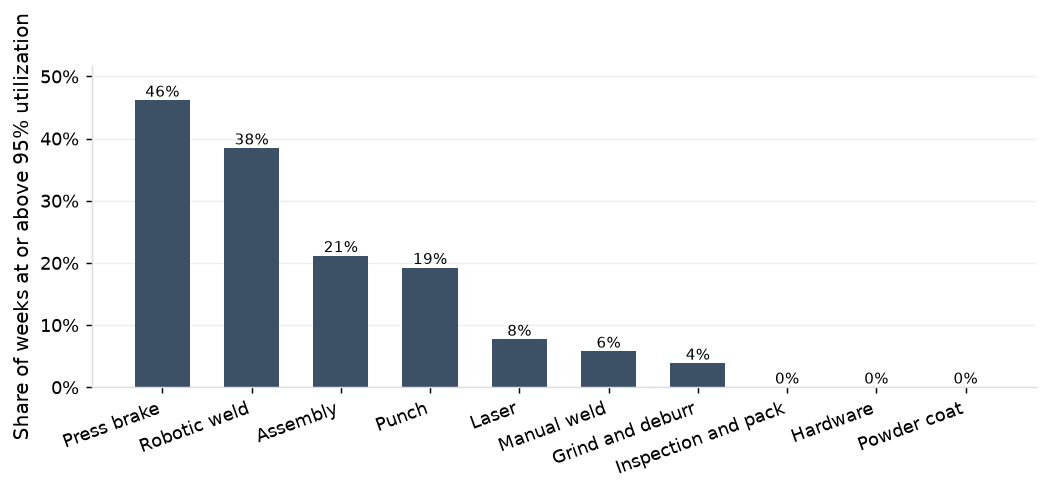
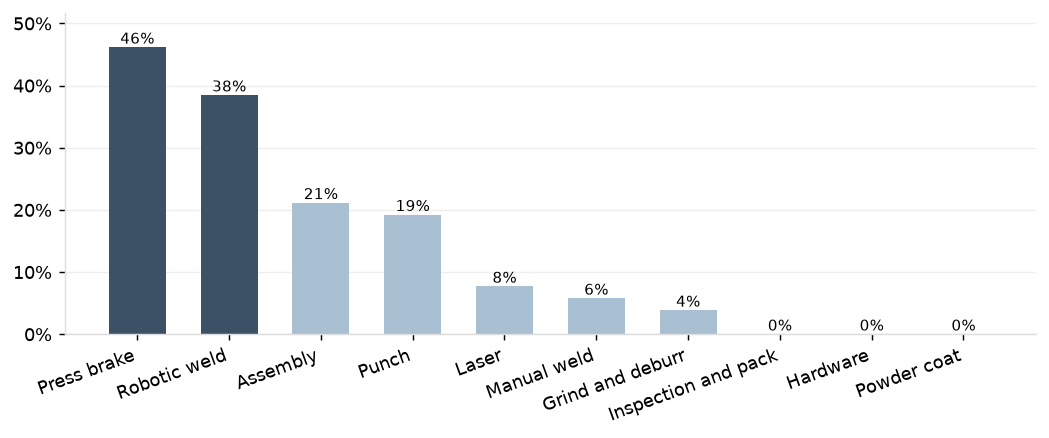
Capacity report: Section 1 on utilization over time, weeks at full load and queue days

Changed region(s): [[0.0, 0.0297, 0.9457, 0.9795]]

diff --git a/docs/reports/capacity_constraints_and_setups.html b/docs/reports/capacity_constraints_and_setups.html
@@ -57,14 +57,16 @@ nav.toc a.sub { font-size: 12px; padding-left: 22px; }
 <body><div class="page-header"><h1>Report: Capacity, Constraints and Setups</h1><div class="sub">Created by Brian Davis, 2026</div></div>
 <div class="layout"><nav class="toc"><div class="toc-title">Contents</div><a href="#f1">1. Capacity Across the Shop</a><a href="#f2">2. Load, Queue Time and WIP</a><a href="#f3">3. Setups Against Standard</a><a href="#f4">4. Run Standards</a><a href="#appendix">Appendix</a></nav>
 <main class="content"><h2 id='f1'>1. Capacity Across the Shop</h2>
-<p>The shop's floor consists of ten work centers and 25 machines. The floor activity (operations per machine a week and hours per operation) in routing order is shown below. The grind and deburr, inspection and pack, and powder coat stations run the highest number of operations per machine a week while averaging the shortest amount of time per operation (0.46 to 0.49 hours), and the manual weld bays, assembly and the robotic weld cell run the fewest operations while averaging the longest time (3.8 to 4.9 hours).</p>
-<div class='chart-title'>Floor Activity by Work Center, 2025</div><img alt="Floor Activity by Work Center, 2025" src="../figures/capacity_floor_activity.png?v=7b83e9b6">
-<h3 id='f1_1'>Machine Utilization and Uptime</h3>
-<p>In 2025, there were 29,031 machine operations across ten work centers. This translates to 62,368 scheduled hours, 60,622 available hours, and 45,590 machine hours over the course of the year, as defined below:</p><ul><li>Scheduled hours: the hours the machine was crewed</li><li>Available hours: scheduled hours less recorded downtime</li><li>Machine hours: hours the machine was actually running jobs (both setup and run)</li><li>Uptime: available hours / scheduled hours</li><li>Utilization: machine hours / available hours</li></ul>
-<p>In 2025, the brakes ran at 91% utilization against 97% uptime, a 6-point gap that is the smallest production capacity buffer of any work center. The robotic weld cell ran at 83% utilization, the laser cutting stations at 74% and the assembly through hardware work centers at 66% to 69%. The powder line ran at just 56% utilization. Uptime is 96% to 98% at every work center. See Appendix Table <a href='#t1'>1</a> for additional detail.</p>
+<p>The shop's floor consists of 25 machines across ten work centers. The press brakes run at the highest utilization of any work center, in every quarter since 2023 but one. The robotic weld cell has been second in every quarter from 2025 Q1, having run at 53% to 79% before then, when the lasers and other work centers ran above it; it passed the brakes once, in 2025 Q3 (92% against 90%).</p>
+<div class='chart-title'>Utilization by Work Center, 2023 to 2025</div><img alt="Utilization by Work Center, 2023 to 2025" src="../figures/capacity_utilization_trend.png?v=15ac8030">
+<p>In 2025, the press brakes ran at 91% utilization against 97% uptime, and this 6-point gap was the smallest production capacity buffer of any work center. The robotic weld cell ran at 83% utilization against 97% uptime, a 14-point buffer. Uptime was 96% to 98% at every work center; for purposes of this report, uptime treats setup as running time, not downtime. See Appendix Table <a href='#t1'>1</a> for additional detail.</p>
 <div class='chart-title'>Utilization and Machine Uptime by Work Center</div><img alt="Utilization and Machine Uptime by Work Center" src="../figures/constraint_utilization_uptime.png?v=398f0550">
-<p>Machine uptime figures above treat setup as part of running time, not downtime; setup is counted within utilization for the purposes of this report. Across all work centers, the sources of machine downtime were unplanned breakdowns (50%), planned maintenance (30%), no operator present (13%) and waiting for a program (8%). The chart below details machine downtime by work center.</p>
-<div class='chart-title'>Machine Downtime Hours and Sources by Work Center, 2025</div><img alt="Machine Downtime Hours and Sources by Work Center, 2025" src="../figures/capacity_downtime_by_driver.png?v=fd987ec4">
+<p>Not only do the press brakes and robotic weld cell have the highest average utilization, they also spend more time than any other work station at or near maximum utilization. Shown below is the share of weeks in 2025 that each work station spent at or above 95% average utilization. The press brakes and the robotic weld cell were at this level in 46% and 38% of weeks throughout the year.</p>
+<div class='chart-title'>Share of weeks at or above 95% utilization, 2025</div><img alt="Share of weeks at or above 95% utilization, 2025" src="../figures/capacity_hot_week_share.png?v=5980e1e8">
+<p>Work stations experienced an increase in queue time when operating near maximum utilization, compared to weeks at lower utilization. Notably, the press brakes were the exception: their queue time in weeks at or above 95% utilization was lower than in their other weeks (3.06 days against 3.98). This is because the other weeks on this station are still running at 85% to 95% utilization in 19 of 28 cases and carry the backlog of the weeks before them.</p>
+<div class='chart-title'>Queue Time in Weeks at or Above 95% Utilization and Other Weeks, 2025</div><img alt="Queue Time in Weeks at or Above 95% Utilization and Other Weeks, 2025" src="../figures/capacity_queue_in_hot_weeks_year.png?v=5e865f9a">
+<p>Throughout 2025, jobs spent 36,318 days waiting at a work center after their first operation. The press brake station accounted for 56% of those days, which is a function of its consistently high utilization, as well as its volume of operations. There were nearly 5,700 brake operations in 2025. The robotic weld cell, which saw similar queue times to the press brakes (3.64 days per operation against 3.54), accounted for less than 5% of queue days, because it saw only 423 operations in 2025.</p>
+<div class='chart-title'>Share of queue days by work center, 2025</div><img alt="Share of queue days by work center, 2025" src="../figures/capacity_share_of_queue_days.png?v=cc48b974">
 <h2 id='f2'>2. Load, Queue Time and WIP</h2>
 <h3 id='f2_1'>Queue time against load</h3>
 <p>The curve is the queue time expected at each level of utilization for the number of machines at the work center, fitted on rolling 13-week windows from 2023 to 2025; for the brakes the fit explains 45% of the variation in the windowed queue time with a rank correlation of 0.88, while a single week's queue time carries the backlog of the weeks before it. The curve is drawn only over the range of utilization the work center has run at in those windows; it is not extended beyond it. Single weeks at full utilization can show short waits when the backlog behind them is small, which is why the fit is made on windows rather than weeks. Three work centers carry sustained load and follow the curve: the brakes, the robotic weld cell and the lasers. Each is shown below with its weekly record.</p>
@@ -104,7 +106,6 @@ nav.toc a.sub { font-size: 12px; padding-left: 22px; }
 <div class='chart-title'>Powder Color-Day Wait by Color, 2025</div><img alt="Powder Color-Day Wait by Color, 2025" src="../figures/capacity_powder_wait_by_color.png?v=d9ea795a">
 <h3 id='f2_5'>Hot weeks across the floor</h3>
 <p>A hot week is one in which a work center ran at or above 95% utilization. As seen below, seven work centers recorded at least one hot week in 2025, with the brakes recording the most, followed by the robotic weld cell and assembly. The punch recorded the third lowest average utilization yet 10 hot weeks, because it is a single machine running about 16 operations a week, so a few large jobs fill a week. The lasers recorded the third highest utilization yet only 4 hot weeks, because they pool three machines over about 84 operations a week and go hot only when releases surge, as they did in the six weeks of the Q4 2024 build (Table 4) that formed the backlog detailed in <a href='lead_time_and_late_jobs.html'>Flow and On-time Delivery</a>. In Q2-Q4 a hot week shows as a longer wait at each of the six that had one: 2.00 days per operation at the brakes against 1.57 in the other weeks, 5.26 against 2.94 at the robotic weld cell, 3.72 against 1.15 at assembly, 1.26 against 0.26 at the punch, 1.99 against 0.83 at the lasers and 2.58 against 0.78 at the manual weld bays. For the full year the brakes read the other way (3.06 against 3.98) because the first-quarter backlog kept the wait long whatever the week's utilization. The count of jobs at the work center rises too, though by less than the wait does: 41 jobs at the brakes against 35 in other weeks and 9.9 against 5.9 at the robotic weld cell. Hot weeks carry 57% of brake hours and 50% of the weld cell's in Q2-Q4, 27% of the punch's and 19% of assembly's. See Appendix Tables <a href='#t5'>5</a> and <a href='#t6'>6</a> for additional detail.</p>
-<div class='chart-title'>Share of hot weeks by work station, 2025</div><img alt="Share of hot weeks by work station, 2025" src="../figures/capacity_hot_week_share.png?v=ae2c77f0">
 <div class='chart-title'>Queue Time and Jobs at the Work Center in Hot Weeks and Other Weeks, Q2-Q4 2025</div><img alt="Queue Time and Jobs at the Work Center in Hot Weeks and Other Weeks, Q2-Q4 2025" src="../figures/capacity_queue_in_hot_weeks.png?v=c37e3dfe">
 <p>The brake queue is set by arrival variability and by load above 85%, so capacity at the constraint is the lever: the setup program of <a href='#f3'>Section 3</a> and planned Saturday brake shifts for the peak, both tested in <a href='options_tested.html'>Options Tested</a>. Release leveling and dispatch rules do not help this shop, and reducing the spread of setup time is not a lever. At the three list-set work centers the lever is the list; at the powder line it is the color schedule.</p>
 <h2 id='f3'>3. Setups Against Standard</h2>

diff --git a/docs/index.html b/docs/index.html
@@ -34,5 +34,5 @@ nav.toc a { color: var(--accent); text-decoration: none; margin-right: 14px; }
 </style></head>
 <body><div class="page">
 <header class="doc"><div class="kicker">Deliverables</div><h1>Operations analytics</h1><div class="meta">Custom sheet-metal fabrication job shop, about 120 employees, one plant.<br>Eight improvement projects and an operations dashboard on the shop's records from January 2023 to December 2025. Sources: ERP, shop-floor data collection, QMS, maintenance and HR exports (batch 20261003T152921Z-20250101).</div><div class="credit">Created by Brian Davis, 2026</div></header>
-<table class="data"><thead><tr><th>Report</th><th>Question</th><th>Finding</th><th>Deliverable</th></tr></thead><tbody><tr><td class="">Flow and On-time Delivery</td><td class="">Where does the lead time go, and does the floor's WIP match the quoted lead times? What makes jobs late, and do the shop's late-reason codes say so?</td><td class="">Queue at the brakes is 28% of lead time and the stage that separates late jobs from on-time jobs (6.98 days against 2.71); the median job ships in 11.2 working days against an average quoted lead time of 12.4, 9.2 in Q2-Q4. In 2025, jobs waiting at work centers (i.e., queue constraints) accounted for 44% of the 4,647 lost days, while jobs that were released late accounted for 17%, and jobs that waited on material and outside processing accounted for 7% and 3%, respectively.</td><td class=""><a href='reports/lead_time_and_late_jobs.html'>Report</a></td></tr><tr><td class="">Capacity, Constraints and Setups</td><td class="">Which work centers run hot, and how do their queues respond to load? What do setups cost at the brakes, and where is the overrun?</td><td class="">In 2025, the brakes ran at 91% utilization against 97% uptime, a 6-point gap that is the smallest production capacity buffer of any work center. The robotic weld cell ran at 83% utilization, the laser cutting stations at 74% and the assembly through hardware work centers at 66% to 69%. The powder line ran at just 56% utilization. Brake setups ran 6,077 hours against 4,235 standard in 2025: 1,842 hours over, 35 a week, 11% of brake machine time.</td><td class=""><a href='reports/capacity_constraints_and_setups.html'>Report</a></td></tr><tr><td class="">Options Tested</td><td class="">Do release control and dispatch rules help, and what does? Do the capital options pay back?</td><td class="">A WIP cap and dispatch rules do not help; the setup program, a second shift on the robotic weld cell and planned Saturdays from November through February take the year to 88.0% on time, up 6.0 points (5.0 to 6.9), and Q2-Q4 to 91.8%. On overtime and labor alone no option pays back within the 7-year horizon, and the no-capital package is net negative ($70,000 a year, the weld cell's second shift). With half the released brake hours sold, the robotic cell pays back in 1.6 years, the tool changer on B3 in 3.9, the laser tower not at all.</td><td class=""><a href='reports/options_tested.html'>Report</a></td></tr><tr><td class="">Quoting and Early Warning from Load</td><td class="">What lead time should be quoted, and what wins quotes? Which weekly measures move before on-time delivery does?</td><td class="">The fixed quote is met on 53.0% of non-rush jobs for the year and 70.5% in Q2-Q4; a quote by routing class and brake backlog at release, never below the fixed quote, is met on 67.0% and 82.1% out of sample and lengthens 43.6% and 33.9% of promised lead times. The on-time start rate correlates +0.62 with on-time delivery 1 week later, against a 95th percentile of +0.24 on shuffled series and +0.21 on shifted series. It moved before all four declines in on-time delivery; no other weekly measure leads in ordinary weeks.</td><td class=""><a href='reports/quoting_and_early_warning.html'>Report</a></td></tr></tbody></table><p><a href='dashboard/index.html'>Operations dashboard</a></p>
+<table class="data"><thead><tr><th>Report</th><th>Question</th><th>Finding</th><th>Deliverable</th></tr></thead><tbody><tr><td class="">Flow and On-time Delivery</td><td class="">Where does the lead time go, and does the floor's WIP match the quoted lead times? What makes jobs late, and do the shop's late-reason codes say so?</td><td class="">Queue at the brakes is 28% of lead time and the stage that separates late jobs from on-time jobs (6.98 days against 2.71); the median job ships in 11.2 working days against an average quoted lead time of 12.4, 9.2 in Q2-Q4. In 2025, jobs waiting at work centers (i.e., queue constraints) accounted for 44% of the 4,647 lost days, while jobs that were released late accounted for 17%, and jobs that waited on material and outside processing accounted for 7% and 3%, respectively.</td><td class=""><a href='reports/lead_time_and_late_jobs.html'>Report</a></td></tr><tr><td class="">Capacity, Constraints and Setups</td><td class="">Which work centers run hot, and how do their queues respond to load? What do setups cost at the brakes, and where is the overrun?</td><td class="">In 2025, the press brakes ran at 91% utilization against 97% uptime, and this 6-point gap was the smallest production capacity buffer of any work center. The robotic weld cell ran at 83% utilization against 97% uptime, a 14-point buffer. Brake setups ran 6,077 hours against 4,235 standard in 2025: 1,842 hours over, 35 a week, 11% of brake machine time.</td><td class=""><a href='reports/capacity_constraints_and_setups.html'>Report</a></td></tr><tr><td class="">Options Tested</td><td class="">Do release control and dispatch rules help, and what does? Do the capital options pay back?</td><td class="">A WIP cap and dispatch rules do not help; the setup program, a second shift on the robotic weld cell and planned Saturdays from November through February take the year to 88.0% on time, up 6.0 points (5.0 to 6.9), and Q2-Q4 to 91.8%. On overtime and labor alone no option pays back within the 7-year horizon, and the no-capital package is net negative ($70,000 a year, the weld cell's second shift). With half the released brake hours sold, the robotic cell pays back in 1.6 years, the tool changer on B3 in 3.9, the laser tower not at all.</td><td class=""><a href='reports/options_tested.html'>Report</a></td></tr><tr><td class="">Quoting and Early Warning from Load</td><td class="">What lead time should be quoted, and what wins quotes? Which weekly measures move before on-time delivery does?</td><td class="">The fixed quote is met on 53.0% of non-rush jobs for the year and 70.5% in Q2-Q4; a quote by routing class and brake backlog at release, never below the fixed quote, is met on 67.0% and 82.1% out of sample and lengthens 43.6% and 33.9% of promised lead times. The on-time start rate correlates +0.62 with on-time delivery 1 week later, against a 95th percentile of +0.24 on shuffled series and +0.21 on shifted series. It moved before all four declines in on-time delivery; no other weekly measure leads in ordinary weeks.</td><td class=""><a href='reports/quoting_and_early_warning.html'>Report</a></td></tr></tbody></table><p><a href='dashboard/index.html'>Operations dashboard</a></p>
 </div></body></html>

diff --git a/analytics/reports/capacity_constraints_and_setups.py b/analytics/reports/capacity_constraints_and_setups.py
@@ -4,7 +4,6 @@ Usage: python -m analytics.reports.capacity_constraints_and_setups
 """
 import numpy as np
 import pandas as pd
-from matplotlib.ticker import MaxNLocator
 
 from analytics.constraint import analysis as CA
 from analytics.constraint import screen as SC
@@ -42,9 +41,6 @@ QSHARE = q("select work_center, share_of_queue from marts.mart_queue_by_work_cen
 HOT_ORDER = ["press_brake", "robotic_weld", "assembly", "punch", "laser", "weld", "grind_deburr"]          # by hot weeks in the year
 HOT_SIX = HOT_ORDER[:6]                                                                                 # those with a hot week in the ordinary quarters
 ROUTING = ["laser", "punch", "press_brake", "hardware", "weld", "robotic_weld", "grind_deburr", "powder_coat", "assembly", "inspection_pack"]
-DOWN_ORDER = ["breakdown", "PM", "no operator", "waiting for program"]
-DOWN_LABEL = {"breakdown": "Unplanned Breakdowns", "PM": "Planned Maintenance", "no operator": "No Operator", "waiting for program": "Waiting for Program"}
-DOWN = X["downtime"].pivot(index="work_center", columns="cause", values="hours").fillna(0.0)[DOWN_ORDER]
 ACTIVITY = pd.DataFrame({"operations": X["ops"].groupby("work_center").size(), "hours": C.UY["machine"], "machines": C.UY["machines"]})
 ACTIVITY["ops_per_week"] = ACTIVITY["operations"] / SA.WEEKS
 ACTIVITY["ops_per_machine_week"] = ACTIVITY["ops_per_week"] / ACTIVITY["machines"]
@@ -57,59 +53,37 @@ def note(text):
     return f"<div class='caption'>{text}</div>"
 
 
-def fig_activity():
-    """Operations per machine a week (left axis) and machine hours per operation (right axis), work centers in routing order."""
-    d = ACTIVITY.loc[ROUTING]
-    x = np.arange(len(d))
-    f, ax = fig(h=4.0)
-    ax2 = ax.twinx()
-    ops, hrs = sig(d["ops_per_machine_week"].to_numpy(dtype=float)), sig(d["hours_per_operation"].to_numpy(dtype=float))
-    ax.bar(x - 0.2, ops, width=0.38, color=LIGHT_BLUE, label="Operations per machine a week (left)")
-    ax2.bar(x + 0.2, hrs, width=0.38, color=BRAND_BLUE, label="Machine hours per operation (right)")
-    for xi, vi in zip(x, ops):
-        ax.text(xi - 0.2, vi, f"{vi:.0f}", ha="center", va="bottom", fontsize=8)
-    for xi, vi in zip(x, hrs):
-        ax2.text(xi + 0.2, vi, f"{vi:.2f}" if vi < 1 else f"{vi:.1f}", ha="center", va="bottom", fontsize=8)
-    ax.set_xticks(x)
-    ax.set_xticklabels([f"{WC[w]} ({int(d.loc[w, 'machines'])}{' machines' if w == 'laser' else ''})" for w in d.index], rotation=25, ha="right")
-    ax.set_ylabel("Operations per machine a week")
-    ax2.set_ylabel("Machine hours per operation")
-    ax.set_ylim(0, float(ops.max()) * 1.12)
-    ax2.set_ylim(0, float(hrs.max()) * 1.12)
-    ax2.grid(False)
-    ax2.spines["top"].set_visible(False)
-    h1, l1 = ax.get_legend_handles_labels()
-    h2, l2 = ax2.get_legend_handles_labels()
-    f.legend(h1 + h2, l1 + l2, frameon=False, fontsize=9, ncol=2, loc="lower center")
-    f.tight_layout(rect=(0, 0.06, 1, 1))
-    return save(f, "capacity_floor_activity", f"Floor Activity by Work Center, {YEAR}")
+LEAD_TWO = ["press_brake", "robotic_weld"]                                # drawn in the darker blue wherever work centers are compared
+shade = lambda w: BRAND_BLUE if w in LEAD_TWO else LIGHT_BLUE
+QUARTERLY = (X["uw"].assign(quarter=lambda d: d["week_year"].astype(int).astype(str) + " Q" + d["week_quarter"].astype(int).astype(str))
+             .groupby(["quarter", "work_center"])[["machine_hours", "scheduled_hours", "downtime_hours"]].sum()
+             .pipe(lambda g: g["machine_hours"] / (g["scheduled_hours"] - g["downtime_hours"])).unstack())
+QDAYS = q("select work_center, operations, queue_days, share_of_queue from marts.mart_queue_by_work_center where period = 'year' order by queue_days desc").set_index("work_center")
 
 
-def fig_downtime():
-    """Downtime hours by work center, each column split by source with the source's share of the column inside it."""
-    d = DOWN.loc[DOWN.sum(axis=1).sort_values(ascending=False).index]
+def fig_utilization_trend():
+    """Utilization by quarter for each work center, each line named where it ends."""
+    d = QUARTERLY * 100
     x = np.arange(len(d))
-    colors = dict(zip(DOWN_ORDER, (BRAND_BLUE, ACCENT, LIGHT_BLUE, AMBER)))
-    f, ax = fig(h=4.2)
-    bottom = np.zeros(len(d))
-    total = d.sum(axis=1).to_numpy(dtype=float)
-    for k in DOWN_ORDER:
-        v = sig(d[k].to_numpy(dtype=float))
-        ax.bar(x, v, width=0.66, bottom=bottom, color=colors[k], label=DOWN_LABEL[k])
-        for xi, vi, bi, ti in zip(x, v, bottom, total):
-            if vi >= total.max() * 0.045:
-                ax.text(xi, bi + vi / 2, f"{vi / ti * 100:.0f}%", ha="center", va="center", fontsize=7.5, color="white" if k in ("breakdown", "PM") else "#222222")
-        bottom += v
-    for xi, ti in zip(x, total):
-        ax.text(xi, ti, f"{ti:,.0f}", ha="center", va="bottom", fontsize=8.5)
+    f, ax = fig(h=4.4)
+    order = [w for w in d.columns if w not in LEAD_TWO] + LEAD_TWO
+    for w in order:
+        ax.plot(x, sig(d[w].to_numpy(dtype=float)), color=shade(w), linewidth=2.4 if w in LEAD_TWO else 1.5, zorder=3 if w in LEAD_TWO else 2)
+    # the names at the right, moved apart where two lines end close together
+    ends = d.iloc[-1].sort_values()
+    placed, gap = [], 2.6
+    for w, v in ends.items():
+        y = float(v) if not placed else max(float(v), placed[-1] + gap)
+        placed.append(y)
+        ax.text(x[-1] + 0.18, y, f"{WC[w]}, {v:.0f}%", ha="left", va="center", fontsize=8.5, color=BRAND_BLUE if w in LEAD_TWO else "#555555",
+                fontweight="bold" if w in LEAD_TWO else None)
     ax.set_xticks(x)
-    ax.set_xticklabels([WC[w] for w in d.index], rotation=20, ha="right")
-    ax.set_ylabel("Downtime Hours")
-    ax.set_ylim(0, float(total.max()) * 1.08)
-    ax.yaxis.set_major_locator(MaxNLocator(integer=True))
-    f.legend(*ax.get_legend_handles_labels(), frameon=False, fontsize=9, ncol=4, loc="lower center")
-    f.tight_layout(rect=(0, 0.06, 1, 1))
-    return save(f, "capacity_downtime_by_driver", f"Machine Downtime Hours and Sources by Work Center, {YEAR}")
+    ax.set_xticklabels(list(d.index), rotation=30, ha="right")
+    ax.set_xlim(-0.3, x[-1] + 3.4)
+    ax.set_ylim(40, 100)
+    ax.yaxis.set_major_formatter(lambda t, _: f"{t:.0f}%")
+    f.tight_layout()
+    return save(f, "capacity_utilization_trend", "Utilization by Work Center, 2023 to 2025")
 
 
 def fig_hot_share():
@@ -117,16 +91,42 @@ def fig_hot_share():
     x = np.arange(len(d))
     v = sig(d.to_numpy(dtype=float) * 100)
     f, ax = fig(h=3.5)
-    ax.bar(x, v, width=0.62, color=BRAND_BLUE)
+    ax.bar(x, v, width=0.62, color=[shade(w) for w in d.index])
     for xi, vi in zip(x, v):
         ax.text(xi, vi, f"{vi:.0f}%", ha="center", va="bottom", fontsize=8.5)
     ax.set_xticks(x)
     ax.set_xticklabels([WC[w] for w in d.index], rotation=20, ha="right")
-    ax.set_ylabel("Share of weeks at or above 95% utilization")
     ax.set_ylim(0, float(v.max()) * 1.12)
     ax.yaxis.set_major_formatter(lambda t, _: f"{t:.0f}%")
     f.tight_layout()
-    return save(f, "capacity_hot_week_share", f"Share of hot weeks by work station, {YEAR}")
+    return save(f, "capacity_hot_week_share", f"Share of weeks at or above 95% utilization, {YEAR}")
+
+
+def fig_hot_year():
+    """Queue time in the year's weeks at or above 95% utilization against its other weeks, for the work centers that had one."""
+    d = HY.loc[HOT_ORDER]
+    f, ax = fig(h=3.8)
+    paired_columns(ax, [WC[w] for w in d.index], list(d["queue_hot"]), list(d["queue_other"]), ("Weeks at or above 95%", "Other weeks"), decimals=2)
+    ax.set_ylabel("Queue time in days")
+    f.legend(*ax.get_legend_handles_labels(), frameon=False, fontsize=9, ncol=2, loc="lower center")
+    f.tight_layout(rect=(0, 0.06, 1, 1))
+    return save(f, "capacity_queue_in_hot_weeks_year", f"Queue Time in Weeks at or Above 95% Utilization and Other Weeks, {YEAR}")
+
+
+def fig_queue_days():
+    d = QDAYS["share_of_queue"]
+    x = np.arange(len(d))
+    v = sig(d.to_numpy(dtype=float) * 100)
+    f, ax = fig(h=3.5)
+    ax.bar(x, v, width=0.62, color=[shade(w) for w in d.index])
+    for xi, vi in zip(x, v):
+        ax.text(xi, vi, f"{vi:.0f}%", ha="center", va="bottom", fontsize=8.5)
+    ax.set_xticks(x)
+    ax.set_xticklabels([WC[w] for w in d.index], rotation=20, ha="right")
+    ax.set_ylim(0, float(v.max()) * 1.12)
+    ax.yaxis.set_major_formatter(lambda t, _: f"{t:.0f}%")
+    f.tight_layout()
+    return save(f, "capacity_share_of_queue_days", f"Share of queue days by work center, {YEAR}")
 
 
 def fig_hot():
@@ -492,41 +492,50 @@ def build():
     # 1 ── capacity across the shop
     b.append("<h2 id='f1'>1. Capacity Across the Shop</h2>")
     act = ACTIVITY
-    busy, slow = act.sort_values("ops_per_machine_week", ascending=False).index[:3], act.sort_values("ops_per_machine_week").index[:3]
-    assert set(busy) == set(act.sort_values("hours_per_operation").index[:3]) == {"grind_deburr", "inspection_pack", "powder_coat"}
-    assert set(slow) == set(act.sort_values("hours_per_operation", ascending=False).index[:3]) == {"weld", "assembly", "robotic_weld"}
-    b.append(f"<p>The shop's floor consists of ten work centers and {n0(act['machines'].sum())} machines. The floor activity (operations per machine a week and "
-             f"hours per operation) in routing order is shown below. The grind and deburr, inspection and pack, and powder coat stations run the highest number of "
-             f"operations per machine a week while averaging the shortest amount of time per operation "
-             f"({rng(act.loc[busy, 'hours_per_operation'].min(), act.loc[busy, 'hours_per_operation'].max())} hours), and the manual weld bays, assembly and the "
-             f"robotic weld cell run the fewest operations while averaging the longest time "
-             f"({rng(act.loc[slow, 'hours_per_operation'].min(), act.loc[slow, 'hours_per_operation'].max(), d1)} hours).</p>")
-    b.append(chart(f"Floor Activity by Work Center, {YEAR}", fig_activity()))
-
-    b.append("<h3 id='f1_1'>Machine Utilization and Uptime</h3>")
-    sched, down, mach = UY["scheduled"].sum(), UY["down"].sum(), UY["machine"].sum()
-    b.append(f"<p>In {YEAR}, there were {n0(len(ops))} machine operations across ten work centers. This translates to {n0(sched)} scheduled hours, "
-             f"{n0(sched - down)} available hours, and {n0(mach)} machine hours over the course of the year, as defined below:</p>"
-             f"<ul><li>Scheduled hours: the hours the machine was crewed</li><li>Available hours: scheduled hours less recorded downtime</li>"
-             f"<li>Machine hours: hours the machine was actually running jobs (both setup and run)</li><li>Uptime: available hours / scheduled hours</li>"
-             f"<li>Utilization: machine hours / available hours</li></ul>")
-    mid = UY.drop(["press_brake", "robotic_weld", "laser", "powder_coat"])
+    qu = QUARTERLY
+    top = qu.idxmax(axis=1)
+    swapped = [k for k in qu.index if top[k] != "press_brake"]
+    second = qu.drop(columns="press_brake").idxmax(axis=1)
+    since = next(k for k in qu.index if all(second[j] == "robotic_weld" or top[j] == "robotic_weld" for j in qu.index[list(qu.index).index(k):]))
+    early = qu.loc[[k for k in qu.index if k < since], "robotic_weld"]
+    assert len(swapped) == 1 and top[swapped[0]] == "robotic_weld" and len(early) > 0
+    b.append(f"<p>The shop's floor consists of {n0(act['machines'].sum())} machines across ten work centers. The press brakes run at the highest utilization of any "
+             f"work center, in every quarter since 2023 but one. The robotic weld cell has been second in every quarter from {since}, having run at "
+             f"{P(early.min())} to {P(early.max())} before then, when the lasers and other work centers ran above it; it passed the brakes once, in {swapped[0]} "
+             f"({P(qu.loc[swapped[0], 'robotic_weld'])} against {P(qu.loc[swapped[0], 'press_brake'])}).</p>")
+    b.append(chart("Utilization by Work Center, 2023 to 2025", fig_utilization_trend()))
     gap = round(UY["uptime"] * 100) - round(UY["utilization"] * 100)
     assert gap.idxmin() == "press_brake"
-    b.append(f"<p>In {YEAR}, the brakes ran at {P(UY.loc['press_brake', 'utilization'])} utilization against {P(UY.loc['press_brake', 'uptime'])} uptime, a "
-             f"{gap['press_brake']:.0f}-point gap that is the smallest production capacity buffer of any work center. The robotic weld cell ran at "
-             f"{P(UY.loc['robotic_weld', 'utilization'])} utilization, the laser cutting stations at {P(UY.loc['laser', 'utilization'])} and the assembly through "
-             f"hardware work centers at {P(mid['utilization'].min())} to {P(mid['utilization'].max())}. The powder line ran at just "
-             f"{P(UY.loc['powder_coat', 'utilization'])} utilization. Uptime is {P(UY['uptime'].min())} to {P(UY['uptime'].max())} at every work center. "
-             f"{T.see('util')}</p>")
+    b.append(f"<p>In {YEAR}, the press brakes ran at {P(UY.loc['press_brake', 'utilization'])} utilization against {P(UY.loc['press_brake', 'uptime'])} uptime, and "
+             f"this {gap['press_brake']:.0f}-point gap was the smallest production capacity buffer of any work center. The robotic weld cell ran at "
+             f"{P(UY.loc['robotic_weld', 'utilization'])} utilization against {P(UY.loc['robotic_weld', 'uptime'])} uptime, a {gap['robotic_weld']:.0f}-point buffer. "
+             f"Uptime was {P(UY['uptime'].min())} to {P(UY['uptime'].max())} at every work center; for purposes of this report, uptime treats setup as running time, "
+             f"not downtime. {T.see('util')}</p>")
     b.append(titled(C.fig_util(), "Utilization and Machine Uptime by Work Center"))
-    cause = DOWN.sum() / DOWN.values.sum()
-    assert list(cause.sort_values(ascending=False).index) == DOWN_ORDER
-    b.append(f"<p>Machine uptime figures above treat setup as part of running time, not downtime; setup is counted within utilization for the purposes of this "
-             f"report. Across all work centers, the sources of machine downtime were unplanned breakdowns ({P(cause['breakdown'])}), planned maintenance "
-             f"({P(cause['PM'])}), no operator present ({P(cause['no operator'])}) and waiting for a program ({P(cause['waiting for program'])}). The chart below "
-             f"details machine downtime by work center.</p>")
-    b.append(chart(f"Machine Downtime Hours and Sources by Work Center, {YEAR}", fig_downtime()))
+    hot_share = (HY["hot_weeks"] / HY["weeks"]).sort_values(ascending=False)
+    assert list(hot_share.index[:2]) == LEAD_TWO
+    b.append(f"<p>Not only do the press brakes and robotic weld cell have the highest average utilization, they also spend more time than any other work station at "
+             f"or near maximum utilization. Shown below is the share of weeks in {YEAR} that each work station spent at or above 95% average utilization. The press "
+             f"brakes and the robotic weld cell were at this level in {P(hot_share['press_brake'])} and {P(hot_share['robotic_weld'])} of weeks throughout the "
+             f"year.</p>")
+    b.append(chart(f"Share of weeks at or above 95% utilization, {YEAR}", fig_hot_share()))
+    others = [w for w in HOT_ORDER if w != "press_brake"]
+    assert all(HY.loc[w, "queue_hot"] > HY.loc[w, "queue_other"] for w in others) and HY.loc["press_brake", "queue_hot"] < HY.loc["press_brake", "queue_other"]
+    bw = X["uw"][(X["uw"]["work_center"] == "press_brake") & (X["uw"]["week_year"] == YEAR) & (X["uw"]["utilization"] < SC.HOT)]
+    b.append(f"<p>Work stations experienced an increase in queue time when operating near maximum utilization, compared to weeks at lower utilization. Notably, the "
+             f"press brakes were the exception: their queue time in weeks at or above 95% utilization was lower than in their other weeks "
+             f"({d2(HY.loc['press_brake', 'queue_hot'])} days against {d2(HY.loc['press_brake', 'queue_other'])}). This is because the other weeks on this station are "
+             f"still running at 85% to 95% utilization in {int((bw['utilization'] >= 0.85).sum())} of {len(bw)} cases and carry the backlog of the weeks before "
+             f"them.</p>")
+    b.append(chart(f"Queue Time in Weeks at or Above 95% Utilization and Other Weeks, {YEAR}", fig_hot_year()))
+    assert QDAYS.index[0] == "press_brake" and QDAYS.loc["robotic_weld", "share_of_queue"] < 0.05
+    b.append(f"<p>Throughout {YEAR}, jobs spent {n0(QDAYS['queue_days'].sum())} days waiting at a work center after their first operation. The press brake station "
+             f"accounted for {P(QDAYS.loc['press_brake', 'share_of_queue'])} of those days, which is a function of its consistently high utilization, as well as its "
+             f"volume of operations. There were nearly {n0(np.ceil(QDAYS.loc['press_brake', 'operations'] / 100) * 100)} brake operations in {YEAR}. The robotic weld "
+             f"cell, which saw similar queue times to the press brakes ({d2(PY.loc['robotic_weld', 'queue_measured'])} days per operation against "
+             f"{d2(PY.loc['press_brake', 'queue_measured'])}), accounted for less than 5% of queue days, because it saw only "
+             f"{n0(QDAYS.loc['robotic_weld', 'operations'])} operations in {YEAR}.</p>")
+    b.append(chart(f"Share of queue days by work center, {YEAR}", fig_queue_days()))
 
     # 2 ── load, queue time and WIP
     b.append("<h2 id='f2'>2. Load, Queue Time and WIP</h2>")
@@ -736,7 +745,6 @@ def build():
              f"does: {jobs('press_brake')} and {d1(HR.loc['robotic_weld', 'wip_hot'])} against {d1(HR.loc['robotic_weld', 'wip_other'])} at the robotic weld cell. "
              f"Hot weeks carry {P(HR.loc['press_brake', 'hours_share_hot'])} of brake hours and {P(HR.loc['robotic_weld', 'hours_share_hot'])} of the weld cell's in "
              f"{REST}, {P(HR.loc['punch', 'hours_share_hot'])} of the punch's and {P(HR.loc['assembly', 'hours_share_hot'])} of assembly's. {T.see('pos', 'hot')}</p>")
-    b.append(chart(f"Share of hot weeks by work station, {YEAR}", fig_hot_share()))
     b.append(chart("Queue Time and Jobs at the Work Center in Hot Weeks and Other Weeks, Q2-Q4 2025", fig_hot()))
     b.append(f"<p>The brake queue is set by arrival variability and by load above 85%, so capacity at the constraint is the lever: the setup program of "
              f"<a href='#f3'>Section 3</a> and planned Saturday brake shifts for the peak, both tested in {link('options')}. Release leveling and dispatch rules do "

diff --git a/analytics/site.py b/analytics/site.py
@@ -37,7 +37,7 @@ def _lead_time():
 
 
 def _capacity():
-    load = re.search(r"In 2025, the brakes ran at .*? The powder line ran at just \d+% utilization\.", section_text(CAPACITY, "f1_1")).group(0)
+    load = re.search(r"In 2025, the press brakes ran at .*? a \d+-point buffer\.", section_text(CAPACITY, "f1")).group(0)
     hours, standard, over, week, share = re.search(r"the brakes ran ([\d,]+) hours against ([\d,]+) standard, ([\d,]+) over, ([\d,]+) a week, (\d+%) of brake machine time",
                                                    section_text(CAPACITY, "f3")).groups()
     return f"{load} Brake setups ran {hours} hours against {standard} standard in 2025: {over} hours over, {week} a week, {share} of brake machine time."

diff --git a/README.md b/README.md
@@ -23,7 +23,7 @@ The engagement put the ERP order and quote records beside the MES operation time
 | Report | Question | Finding | Deliverable |
 |---|---|---|---|
 | Flow and On-time Delivery | Where does the lead time go, and does the floor's WIP match the quoted lead times? What makes jobs late, and do the shop's late-reason codes say so? | Queue at the brakes is 28% of lead time and the stage that separates late jobs from on-time jobs (6.98 days against 2.71); the median job ships in 11.2 working days against an average quoted lead time of 12.4, 9.2 in Q2-Q4. In 2025, jobs waiting at work centers (i.e., queue constraints) accounted for 44% of the 4,647 lost days, while jobs that were released late accounted for 17%, and jobs that waited on material and outside processing accounted for 7% and 3%, respectively. | [report](https://brimsystems.github.io/mfg-operations-analytics/docs/reports/lead_time_and_late_jobs.html) |
-| Capacity, Constraints and Setups | Which work centers run hot, and how do their queues respond to load? What do setups cost at the brakes, and where is the overrun? | In 2025, the brakes ran at 91% utilization against 97% uptime, a 6-point gap that is the smallest production capacity buffer of any work center. The robotic weld cell ran at 83% utilization, the laser cutting stations at 74% and the assembly through hardware work centers at 66% to 69%. The powder line ran at just 56% utilization. Brake setups ran 6,077 hours against 4,235 standard in 2025: 1,842 hours over, 35 a week, 11% of brake machine time. | [report](https://brimsystems.github.io/mfg-operations-analytics/docs/reports/capacity_constraints_and_setups.html) |
+| Capacity, Constraints and Setups | Which work centers run hot, and how do their queues respond to load? What do setups cost at the brakes, and where is the overrun? | In 2025, the press brakes ran at 91% utilization against 97% uptime, and this 6-point gap was the smallest production capacity buffer of any work center. The robotic weld cell ran at 83% utilization against 97% uptime, a 14-point buffer. Brake setups ran 6,077 hours against 4,235 standard in 2025: 1,842 hours over, 35 a week, 11% of brake machine time. | [report](https://brimsystems.github.io/mfg-operations-analytics/docs/reports/capacity_constraints_and_setups.html) |
 | Options Tested | Do release control and dispatch rules help, and what does? Do the capital options pay back? | A WIP cap and dispatch rules do not help; the setup program, a second shift on the robotic weld cell and planned Saturdays from November through February take the year to 88.0% on time, up 6.0 points (5.0 to 6.9), and Q2-Q4 to 91.8%. On overtime and labor alone no option pays back within the 7-year horizon, and the no-capital package is net negative ($70,000 a year, the weld cell's second shift). With half the released brake hours sold, the robotic cell pays back in 1.6 years, the tool changer on B3 in 3.9, the laser tower not at all. | [report](https://brimsystems.github.io/mfg-operations-analytics/docs/reports/options_tested.html) |
 | Quoting and Early Warning from Load | What lead time should be quoted, and what wins quotes? Which weekly measures move before on-time delivery does? | The fixed quote is met on 53.0% of non-rush jobs for the year and 70.5% in Q2-Q4; a quote by routing class and brake backlog at release, never below the fixed quote, is met on 67.0% and 82.1% out of sample and lengthens 43.6% and 33.9% of promised lead times. The on-time start rate correlates +0.62 with on-time delivery 1 week later, against a 95th percentile of +0.24 on shuffled series and +0.21 on shifted series. It moved before all four declines in on-time delivery; no other weekly measure leads in ordinary weeks. | [report](https://brimsystems.github.io/mfg-operations-analytics/docs/reports/quoting_and_early_warning.html) |
 
